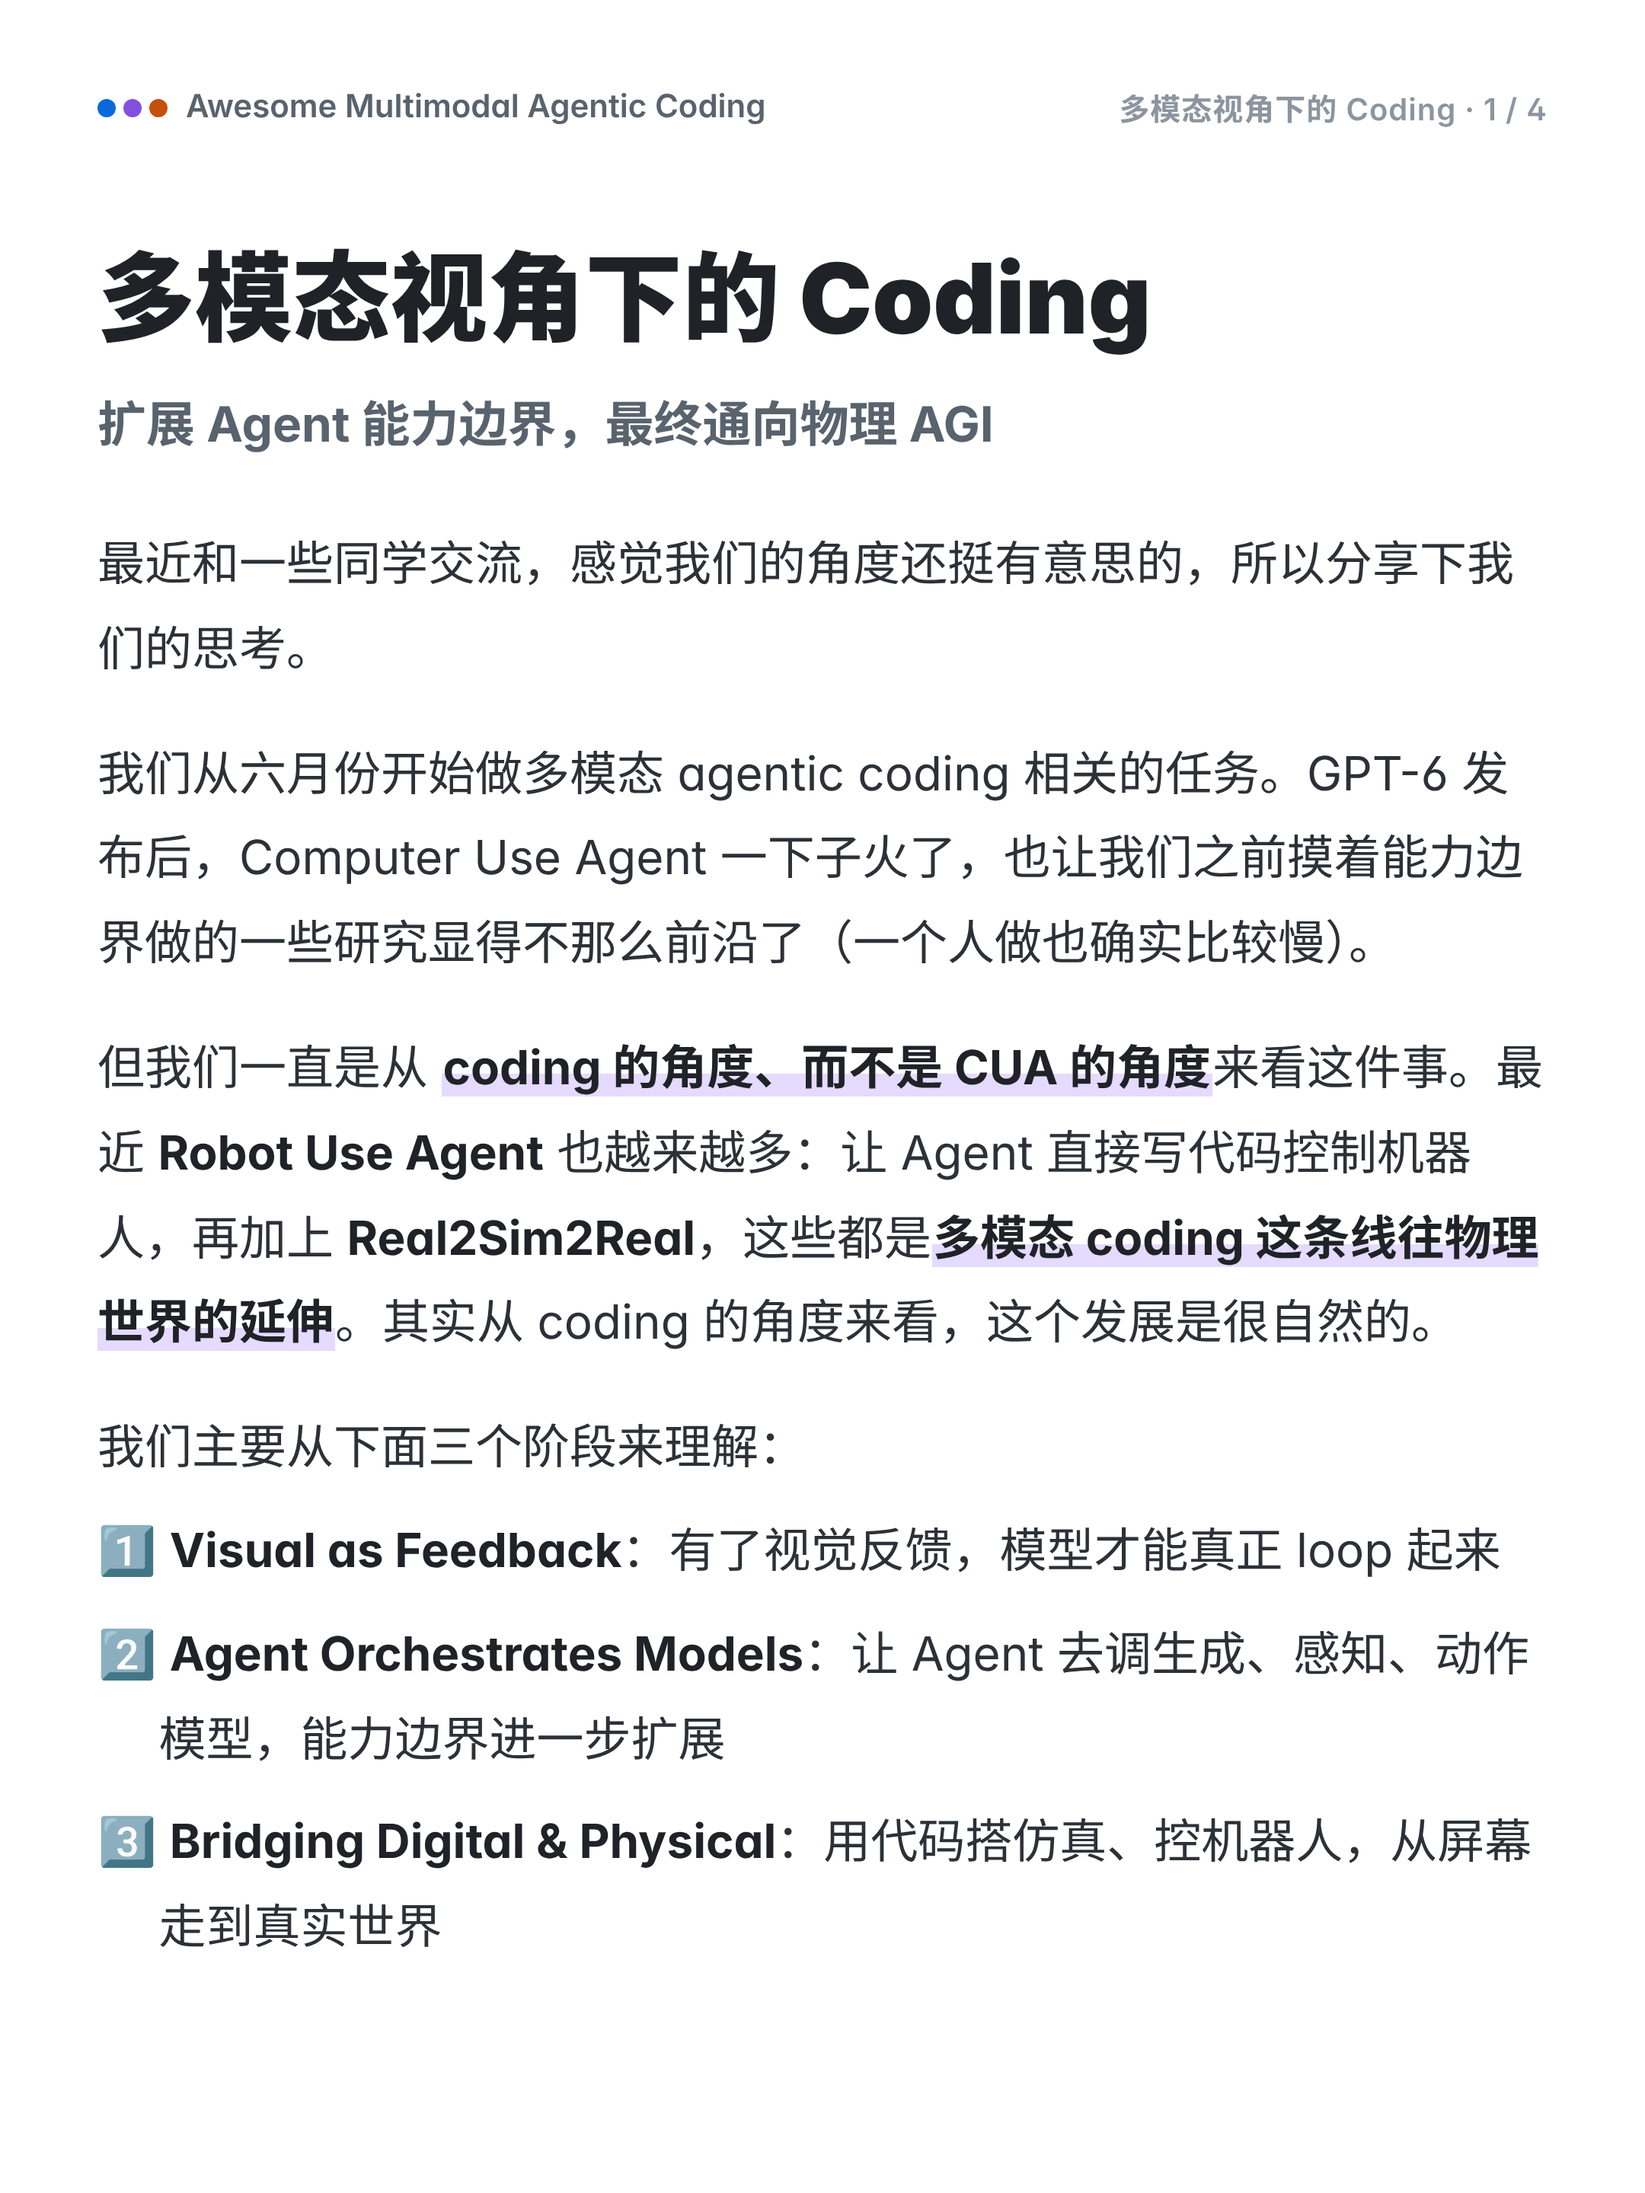
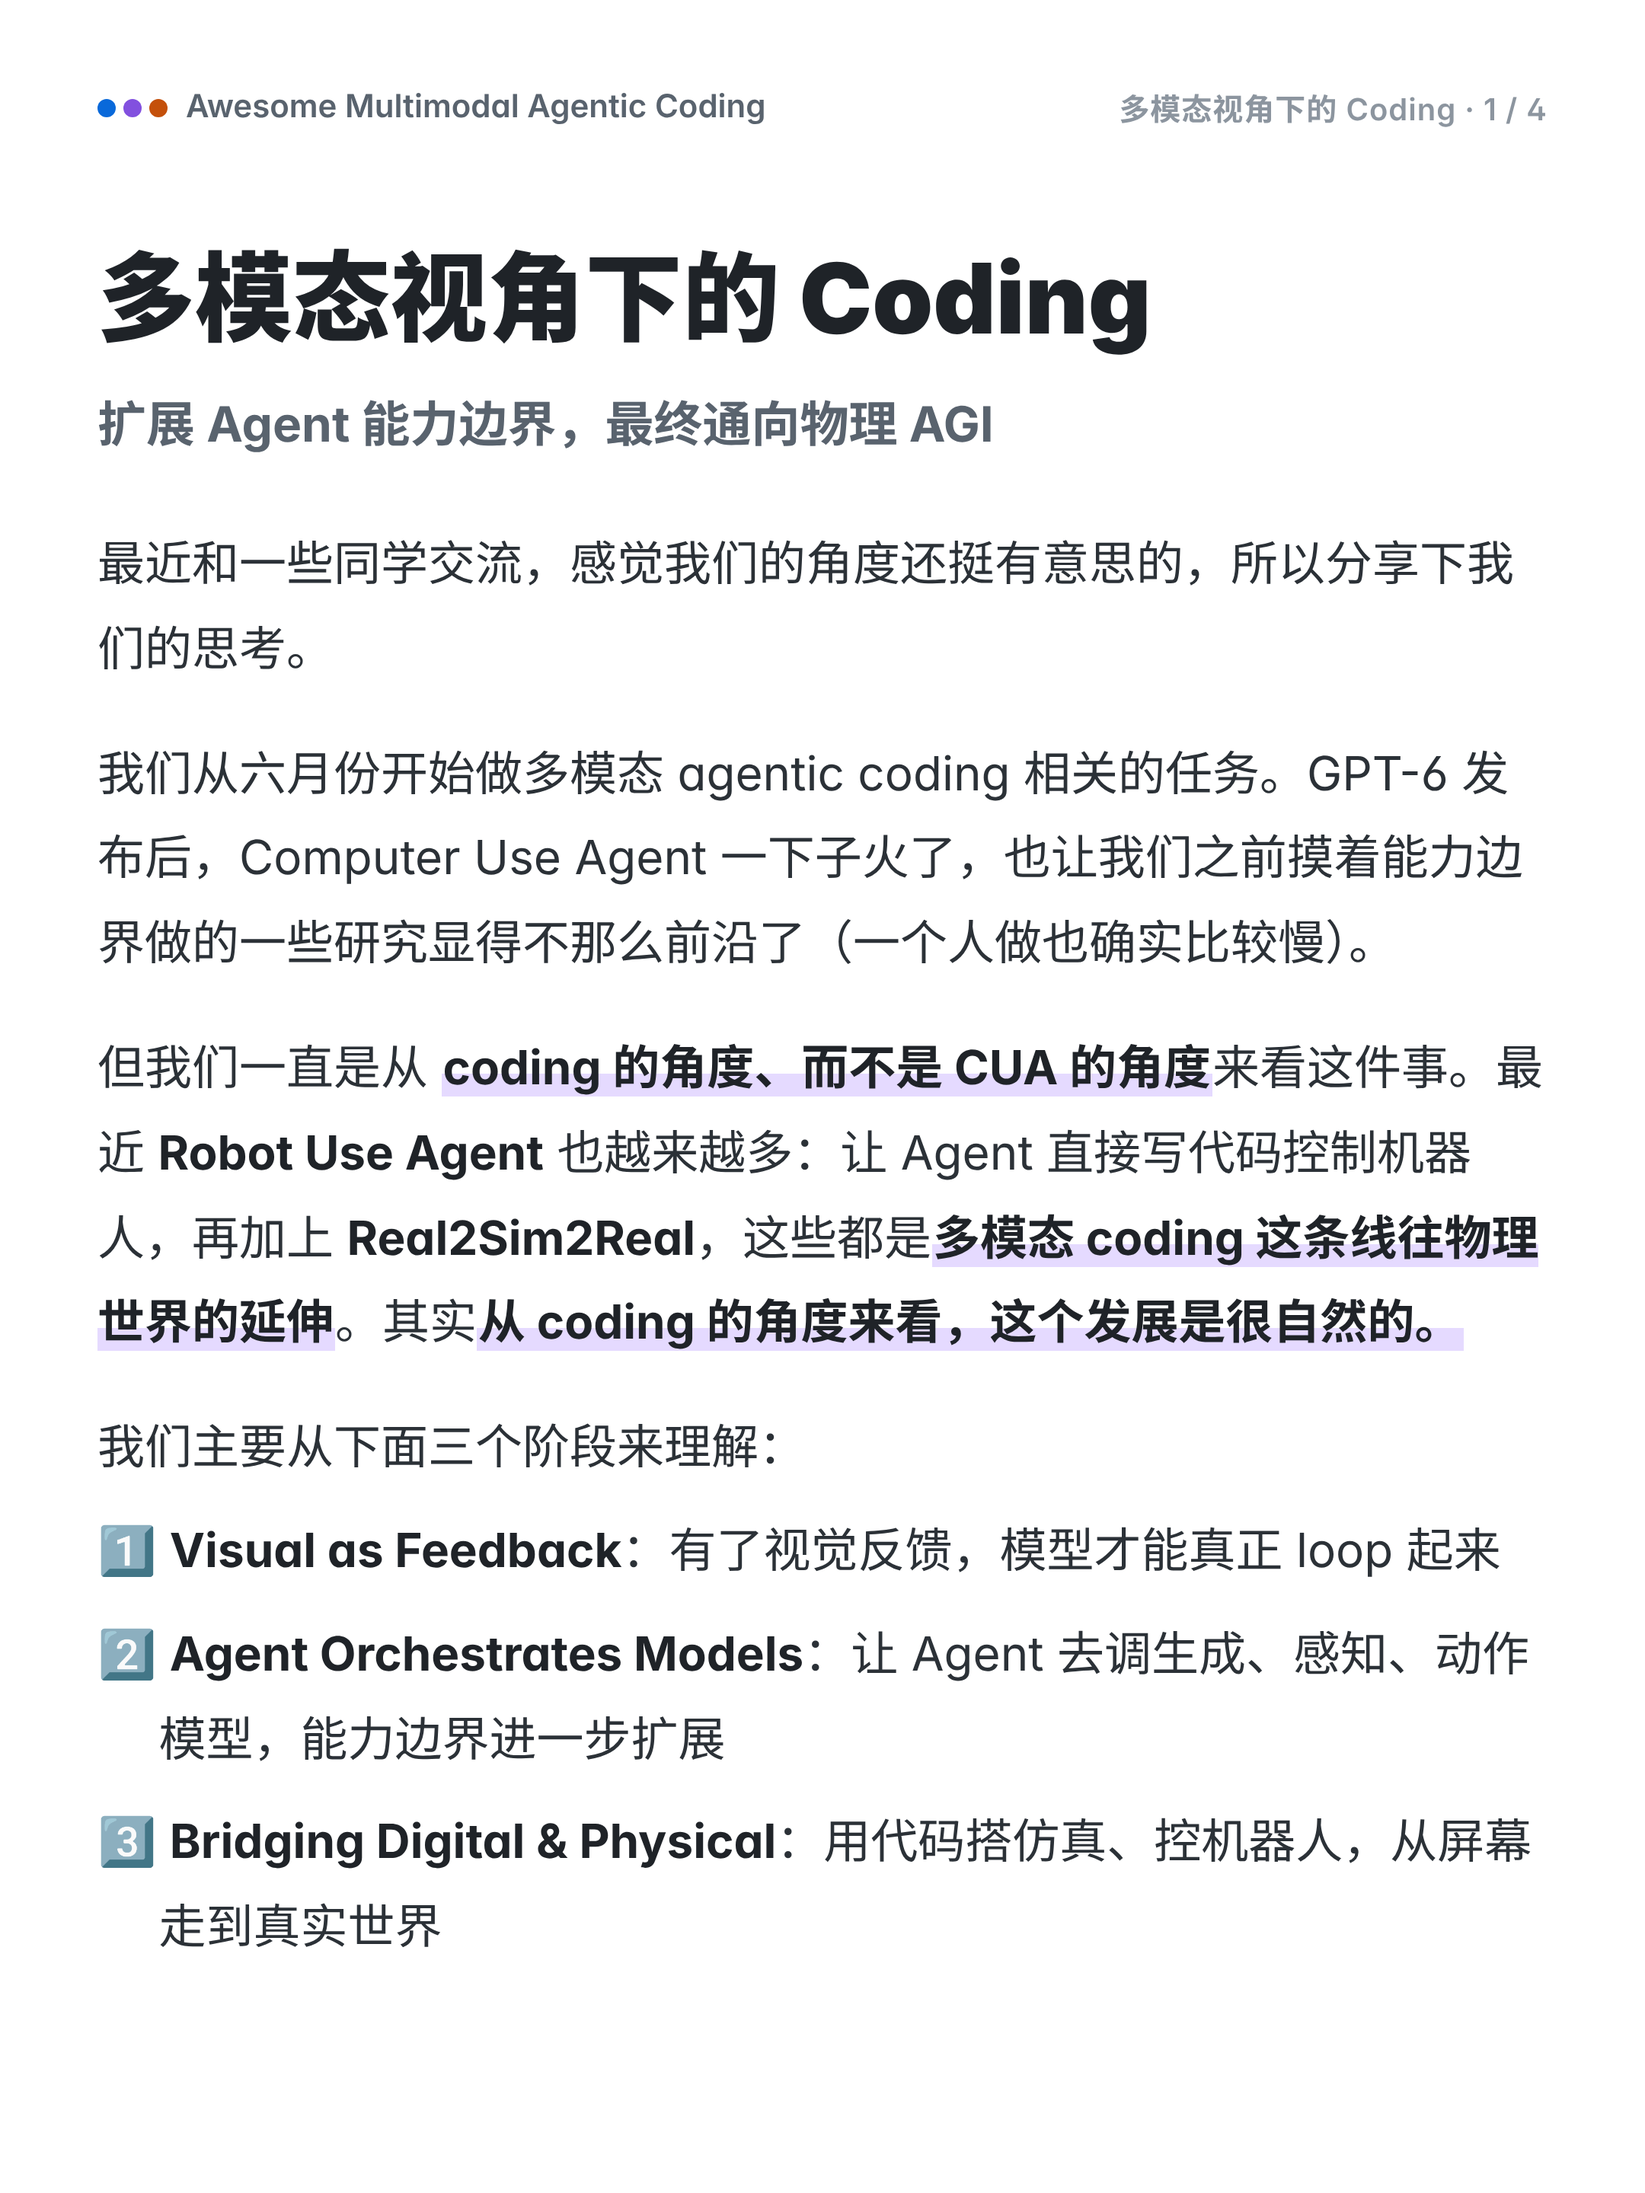
Adjust highlights on the post images
Mark "从 coding 的角度来看，这个发展是很自然的。" and 「多模态 repo」, and
leave "模型不只是做 VQA 了" unmarked.

Claude-Session: https://claude.ai/code/session_01PZLRnhK6KdyKQiDbpVhFsH

Changed region(s): [[0.2792, 0.5938, 0.8995, 0.625]]

diff --git a/promo/gen.js b/promo/gen.js
@@ -95,7 +95,7 @@ const intro = () => article(1, 1, `
   <div class="h1sub">扩展 Agent 能力边界，最终通向物理 AGI</div>
   <p style="margin-top:44px">最近和一些同学交流，感觉我们的角度还挺有意思的，所以分享下我们的思考。</p>
   <p>我们从六月份开始做多模态 agentic coding 相关的任务。GPT-6 发布后，Computer Use Agent 一下子火了，也让我们之前摸着能力边界做的一些研究显得不那么前沿了（一个人做也确实比较慢）。</p>
-  <p>但我们一直是从 ${hl('coding 的角度、而不是 CUA 的角度')}来看这件事。最近 <b>Robot Use Agent</b> 也越来越多：让 Agent 直接写代码控制机器人，再加上 <b>Real2Sim2Real</b>，这些都是${hl('多模态 coding 这条线往物理世界的延伸')}。其实从 coding 的角度来看，这个发展是很自然的。</p>
+  <p>但我们一直是从 ${hl('coding 的角度、而不是 CUA 的角度')}来看这件事。最近 <b>Robot Use Agent</b> 也越来越多：让 Agent 直接写代码控制机器人，再加上 <b>Real2Sim2Real</b>，这些都是${hl('多模态 coding 这条线往物理世界的延伸')}。其实${hl('从 coding 的角度来看，这个发展是很自然的。')}</p>
   <p>我们主要从下面三个阶段来理解：</p>
   <p class="li">1⃣ <b>Visual as Feedback</b>：有了视觉反馈，模型才能真正 loop 起来</p>
   <p class="li">2⃣ <b>Agent Orchestrates Models</b>：让 Agent 去调生成、感知、动作模型，能力边界进一步扩展</p>
@@ -106,7 +106,7 @@ const stage1 = () => article(2, 0, `
   <p style="margin-top:36px">视觉反馈和 perception 能力的提升，让模型可以${hl('真正 loop 起来')}。</p>
   <p>相比于一般的 coding agent，多模态 coding agent 的关键就是有<b>视觉反馈</b>，这一点极大地扩展了 agent 的能力边界。网页、图表、PPT、3D/CAD、游戏……${hl('只要能跑出来、看得见，就能放进这个 loop 里')}。</p>
   <p>其中，<b>perception、grounding 以及 diff</b> 这些原子多模态能力是基础：看得准、找得到、比得出差别。反馈够精准，coding loop 才能更好地跑起来。</p>
-  <p>当然，在这之前通过各种 workflow 也能带来 visual feedback；但在 agent 场景下，${hl('模型不只是做 VQA 了')}，它可以自主地去对比，并且对整个「多模态 repo」进行优化。</p>`);
+  <p>当然，在这之前通过各种 workflow 也能带来 visual feedback；但在 agent 场景下，模型不只是做 VQA 了，它可以自主地去对比，并且对整个${hl('「多模态 repo」')}进行优化。</p>`);
 
 const stage2 = () => article(3, 1, `
   <div class="h2"><span class="n">2 - Agent Orchestrates Models：</span>让 Agent 去调别的模型</div>
